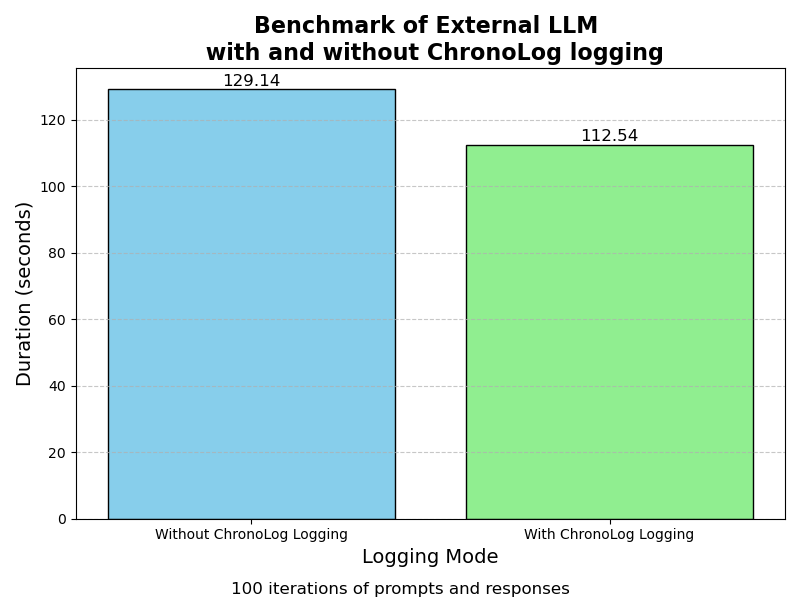
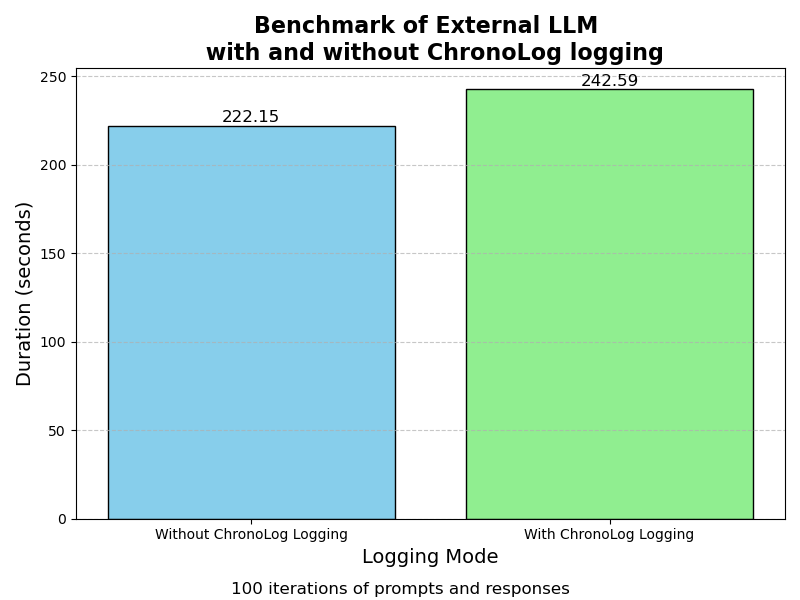
fixed errors and updated results

diff --git a/graph_externalllm.py b/graph_externalllm.py
@@ -1,8 +1,8 @@
 import matplotlib.pyplot as plt
 
 # --- Sample benchmark results (in seconds) ---
-duration_without = 129.14   # e.g., benchmark without logging
-duration_with = 112.54      # e.g., benchmark with logging
+duration_without = 222.15   # e.g., benchmark without logging
+duration_with = 242.59      # e.g., benchmark with logging
 
 # --- Data for the graph ---
 labels = ['Without ChronoLog Logging', 'With ChronoLog Logging']

diff --git a/graph_internalllm.py b/graph_internalllm.py
@@ -1,8 +1,8 @@
 import matplotlib.pyplot as plt
 
 # --- Sample benchmark results (in seconds) ---
-duration_without = 229.57   # e.g., benchmark without logging
-duration_with = 186.86      # e.g., benchmark with logging
+duration_without = 513.82   # e.g., benchmark without logging
+duration_with = 541.92      # e.g., benchmark with logging
 
 # --- Data for the graph ---
 labels = ['Without ChronoLog Logging', 'With ChronoLog Logging']
